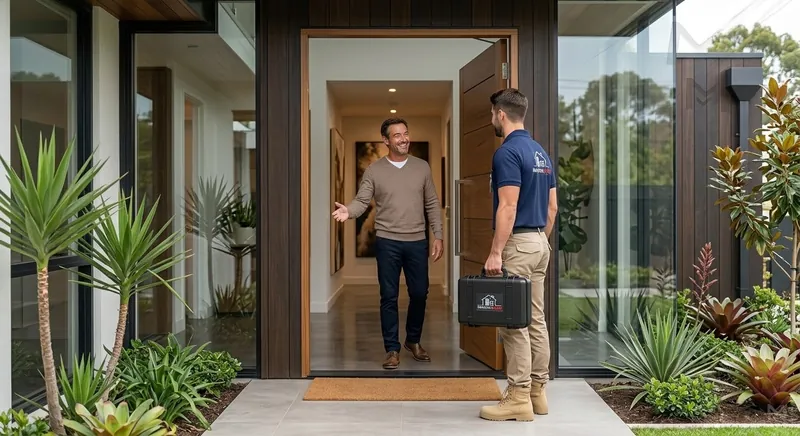
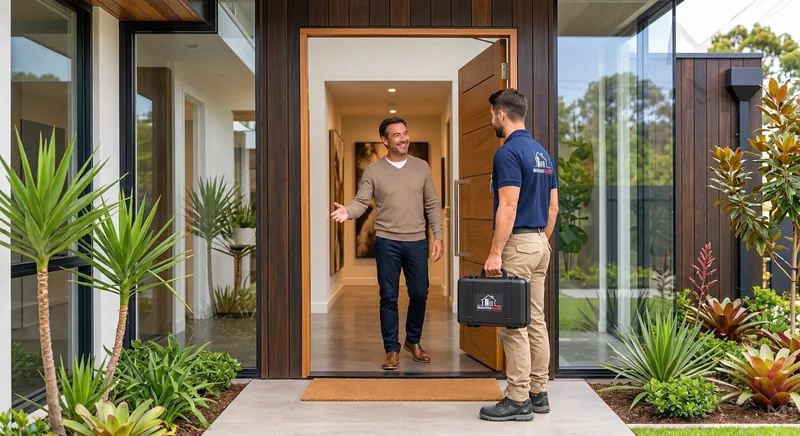
Optimiza la portada para claridad y SEO, y agrega el botón «Llámanos»
- H1 «Servicio técnico de electrodomésticos en Santiago»; el eslogan
  queda asociado al logo; franja «Reparación · Mantención · Instalación»
  y descripción breve sin repetir servicios
- Metadescripción, Open Graph y knowsAbout coherentes con el nuevo H1;
  el <title> ya lo era y no cambia
- Botón flotante «Llámanos» (audífonos, tel:) sobre «Escríbenos»,
  en una pila fija con aro blanco; solo círculos en el celular
- Fotos nuevas: portada con el parche en la manga, paso 1 «Llegada
  pulcra» y equipo
- Pruebas de la jerarquía de la portada y de los botones (94/94)

Claude-Session: https://claude.ai/code/session_012jyCr3wqnRcai8VXK93yGC

diff --git a/index.html b/index.html
@@ -4,7 +4,7 @@
   <meta charset="utf-8">
   <meta name="viewport" content="width=device-width, initial-scale=1, viewport-fit=cover">
   <title>MantenPlus · Servicio técnico de electrodomésticos a domicilio en Santiago</title>
-  <meta name="description" content="Expertos en el cuidado y reparación de tus electrodomésticos. Técnicos especializados en marcas premium y de ingeniería alemana, a domicilio en Santiago. Diagnóstico transparente, garantía por escrito y charla de uso incluida.">
+  <meta name="description" content="Reparación, mantención e instalación de electrodomésticos a domicilio en Santiago. Especialistas en equipos de alta gama y encastrables, con diagnóstico transparente.">
   <meta name="theme-color" content="#FFFFFF">
   <link rel="canonical" href="https://mantenplus.cl/">
 
@@ -12,8 +12,8 @@
   <meta property="og:type" content="website">
   <meta property="og:locale" content="es_CL">
   <meta property="og:site_name" content="MantenPlus">
-  <meta property="og:title" content="MantenPlus · Expertos en el cuidado y reparación de tus electrodomésticos">
-  <meta property="og:description" content="Servicio técnico premium a domicilio en Santiago. Agenda por WhatsApp.">
+  <meta property="og:title" content="MantenPlus · Servicio técnico de electrodomésticos en Santiago">
+  <meta property="og:description" content="Reparación, mantención e instalación a domicilio. Agenda por WhatsApp.">
   <meta property="og:url" content="https://mantenplus.cl/">
   <meta property="og:image" content="https://mantenplus.cl/assets/img/og-mantenplus.jpg">
   <meta property="og:image:width" content="1200">
@@ -28,7 +28,7 @@
   <link rel="preload" href="assets/fonts/inter-latin.woff2" as="font" type="font/woff2" crossorigin>
 
   <!-- Imagen principal de la portada (mejora el LCP) -->
-  <link rel="preload" as="image" href="assets/img/portada-tecnico-lavadora-1200.webp" imagesrcset="assets/img/portada-tecnico-lavadora-600.webp 600w, assets/img/portada-tecnico-lavadora-1200.webp 1200w" imagesizes="(max-width: 860px) calc(100vw - 2rem), 46vw" fetchpriority="high">
+  <link rel="preload" as="image" href="assets/img/portada-tecnico-lavadora-1440.webp" imagesrcset="assets/img/portada-tecnico-lavadora-720.webp 720w, assets/img/portada-tecnico-lavadora-1440.webp 1440w" imagesizes="(max-width: 860px) calc(100vw - 2rem), 46vw" fetchpriority="high">
 
   <link rel="stylesheet" href="assets/css/styles.css">
   <script src="assets/js/main.js" defer></script>
@@ -44,7 +44,7 @@
     "email": "contacto@mantenplus.cl",
     "logo": "https://mantenplus.cl/assets/img/logo-mark.svg",
     "areaServed": { "@type": "City", "name": "Santiago", "containedInPlace": { "@type": "Country", "name": "Chile" } },
-    "knowsAbout": ["Reparación de lavadoras", "Reparación de refrigeradores", "Reparación de encimeras", "Mantención de electrodomésticos"]
+    "knowsAbout": ["Reparación de lavadoras", "Reparación de refrigeradores", "Reparación de encimeras", "Mantención de electrodomésticos", "Instalación y panelado de electrodomésticos encastrables"]
   }
   </script>
 </head>
@@ -127,16 +127,14 @@
         <div class="hero__copy">
           <p class="eyebrow">
             <span class="eyebrow__dot" aria-hidden="true"></span>
-            Servicio técnico a domicilio · Santiago
+            Reparación · Mantención · Instalación
           </p>
 
-          <h1 class="hero__title" id="hero-title">
-            Expertos en el <span class="hl">cuidado</span> y <span class="hl">reparación</span> de tus electrodomésticos
-          </h1>
+          <h1 class="hero__title" id="hero-title">Servicio técnico de <span class="hl">electrodomésticos</span> en Santiago</h1>
 
           <p class="hero__lead">
-            Reparación, mantención e <strong>instalación de equipos de alta gama</strong>, incluidos los encastrables y panelables.
-            Llegamos puntuales e identificados, te mostramos el diagnóstico antes de reparar y te enseñamos a cuidar tu equipo.
+            A domicilio y con diagnóstico transparente: te mostramos la falla y el presupuesto <strong>antes</strong> de reparar.
+            Especialistas en equipos de alta gama, incluidos encastrables y panelables. Cuidamos tus equipos y tu hogar.
           </p>
 
           <!-- Agendamiento rápido: elegir el equipo pre-llena el mensaje de WhatsApp -->
@@ -188,11 +186,11 @@
               Al tener una fotografía propia, reemplazar los archivos y el preload del <head>.
             -->
             <picture>
-              <img class="hero-photo__img" src="assets/img/portada-tecnico-lavadora-1200.webp"
-                   srcset="assets/img/portada-tecnico-lavadora-600.webp 600w, assets/img/portada-tecnico-lavadora-1200.webp 1200w"
+              <img class="hero-photo__img" src="assets/img/portada-tecnico-lavadora-1440.webp"
+                   srcset="assets/img/portada-tecnico-lavadora-720.webp 720w, assets/img/portada-tecnico-lavadora-1440.webp 1440w"
                    sizes="(max-width: 860px) calc(100vw - 2rem), 46vw"
-                   alt="Técnico con polo negro revisando la puerta de una lavadora en una casa luminosa con vista a la cordillera"
-                   width="1200" height="800" fetchpriority="high" decoding="async"
+                   alt="Técnico con polo negro y parche «German Engineering» en la manga revisando la puerta de una lavadora, con la cordillera de fondo"
+                   width="1440" height="1082" fetchpriority="high" decoding="async"
                    onerror="this.closest('picture').remove()">
             </picture>
 
@@ -615,7 +613,7 @@
                   <span>Foto: llegada del técnico, puntual e identificado</span>
                 </div>
                 <picture>
-                  <img src="assets/img/proceso/paso-1-llegada-1408.webp" srcset="assets/img/proceso/paso-1-llegada-800.webp 800w, assets/img/proceso/paso-1-llegada-1408.webp 1408w" sizes="(max-width: 860px) 85vw, 54vw" alt="Técnico de MantenPlus con su maletín, recibido con una sonrisa por el cliente en la puerta de su casa" width="1408" height="768" style="object-position: 72% 50%" loading="lazy" decoding="async">
+                  <img src="assets/img/proceso/paso-1-llegada-1440.webp" srcset="assets/img/proceso/paso-1-llegada-800.webp 800w, assets/img/proceso/paso-1-llegada-1440.webp 1440w" sizes="(max-width: 860px) 85vw, 54vw" alt="Técnico de MantenPlus con su maletín, recibido con una sonrisa por el cliente en la puerta de su casa" width="1440" height="785" style="object-position: 72% 50%" loading="lazy" decoding="async">
                 </picture>
                 <span class="photo-tag">Imagen referencial</span>
               </figure>
@@ -780,13 +778,13 @@
           <figure class="team-photo">
             <!--
               FOTO DEL EQUIPO: imagen referencial (logos poco legibles). Al tener la foto institucional real
-              (docs/04-brief-fotografico.md, Foto 2), reemplazar assets/img/equipo-mantenplus-{720,1195}.webp.
+              (docs/04-brief-fotografico.md, Foto 2), reemplazar assets/img/equipo-mantenplus-{720,1440}.webp.
             -->
-            <img src="assets/img/equipo-mantenplus-1195.webp"
-                 srcset="assets/img/equipo-mantenplus-720.webp 720w, assets/img/equipo-mantenplus-1195.webp 1195w"
+            <img src="assets/img/equipo-mantenplus-1440.webp"
+                 srcset="assets/img/equipo-mantenplus-720.webp 720w, assets/img/equipo-mantenplus-1440.webp 1440w"
                  sizes="(max-width: 860px) calc(100vw - 2rem), 56vw"
                  alt="Equipo de MantenPlus: cuatro técnicos con polo azul marino, pantalón de trabajo y botas, junto a dos integrantes de atención al cliente con polo blanco, en una cocina de alta gama"
-                 width="1195" height="896" loading="lazy" decoding="async">
+                 width="1440" height="1080" loading="lazy" decoding="async">
             <figcaption class="photo-tag">Imagen referencial</figcaption>
           </figure>
         <ul class="pillars pillars--stack" role="list">
@@ -1202,11 +1200,17 @@
   </footer>
 
 
-  <!-- Botón flotante principal de WhatsApp (verde original de la marca) -->
-  <a class="wa-fab" href="https://wa.me/569XXXXXXXX?text=Hola%20MantenPlus%2C%20quiero%20agendar%20un%20servicio." aria-label="Escríbenos por WhatsApp" data-wa-fab data-track="fab_whatsapp">
-    <span class="wa-fab__label" aria-hidden="true">Escríbenos</span>
-    <span class="wa-fab__circle" aria-hidden="true"><svg class="wa-fab__icon"><use href="#i-whatsapp"/></svg></span>
-  </a>
+  <!-- Botones flotantes de contacto directo -->
+  <div class="fab-stack" data-fab>
+    <a class="call-fab" href="tel:+569XXXXXXXX" aria-label="Llámanos" data-track="fab_llamar">
+      <span class="fab-label" aria-hidden="true">Llámanos</span>
+      <span class="call-fab__circle" aria-hidden="true"><svg class="call-fab__icon"><use href="#i-headset"/></svg></span>
+    </a>
+    <a class="wa-fab" href="https://wa.me/569XXXXXXXX?text=Hola%20MantenPlus%2C%20quiero%20agendar%20un%20servicio." aria-label="Escríbenos por WhatsApp" data-wa-fab data-track="fab_whatsapp">
+      <span class="fab-label" aria-hidden="true">Escríbenos</span>
+      <span class="wa-fab__circle" aria-hidden="true"><svg class="wa-fab__icon"><use href="#i-whatsapp"/></svg></span>
+    </a>
+  </div><!-- /botones flotantes -->
 
   <!-- Modo revisión de WhatsApp (idea de la propuesta Codex): solo se usa mientras el número de main.js sea provisorio -->
   <dialog class="msg-dialog" aria-labelledby="msg-title" data-message-dialog>

diff --git a/assets/css/styles.css b/assets/css/styles.css
@@ -915,31 +915,42 @@ details[open] > summary .acc-plus { transform: rotate(45deg); }
 @media (max-width: 860px) { .b2b { grid-template-columns: minmax(0, 1fr); } }
 @media (max-width: 560px) { .install__ctas .btn, .b2b__ctas .btn { width: 100%; } }
 
-/* 6s. BOTÓN FLOTANTE DE WHATSAPP (verde original) ----------------------------- */
-/* Círculo verde con el ícono blanco (como el botón original de WhatsApp) y etiqueta en pastilla blanca:
-   el texto blanco sobre #25D366 no alcanza el contraste mínimo, así que la palabra va en oscuro sobre blanco */
-.wa-fab {
+/* 6s. BOTONES FLOTANTES DE CONTACTO (llamada + WhatsApp) -------------------- */
+/* Pila fija en la esquina: «Llámanos» arriba y «Escríbenos» abajo, en el verde original de WhatsApp.
+   Las etiquetas van en pastillas blancas: el texto blanco sobre #25D366 no alcanza el contraste mínimo */
+.fab-stack {
   position: fixed; z-index: 45;
   right: calc(1.25rem + env(safe-area-inset-right, 0px)); bottom: calc(1.25rem + env(safe-area-inset-bottom, 0px));
-  display: flex; align-items: center; gap: .6rem; border-radius: var(--radius-pill);
+  display: flex; flex-direction: column; align-items: flex-end; gap: .75rem;
+  animation: fab-in .6s var(--ease) .3s both;
 }
-.wa-fab__circle {
-  display: grid; place-items: center; width: 60px; height: 60px; border-radius: 50%; color: #FFFFFF; background: #25D366;
-  box-shadow: 0 10px 24px -6px rgba(18, 140, 126, .55), 0 2px 6px rgba(21, 27, 35, .15);
+@keyframes fab-in { from { opacity: 0; transform: translateY(16px); } }
+.call-fab, .wa-fab { display: flex; align-items: center; gap: .6rem; border-radius: var(--radius-pill); }
+.fab-label {
+  padding: .5rem .9rem; font-family: var(--font-display); font-size: .875rem; font-weight: 700; color: var(--ink);
+  background: var(--white); border: 1px solid var(--gray-100); border-radius: var(--radius-pill); box-shadow: var(--shadow-md);
+  transition: transform .25s var(--ease);
+}
+.wa-fab__circle, .call-fab__circle {
+  display: grid; place-items: center; border-radius: 50%; color: #FFFFFF;
   transition: transform .25s var(--ease), box-shadow .25s var(--ease), background-color .2s;
 }
+/* El aro blanco separa los círculos del contenido que pasa por detrás (por ejemplo, un botón azul) */
+.wa-fab__circle { width: 60px; height: 60px; background: #25D366; box-shadow: 0 0 0 3px var(--white), 0 10px 24px -6px rgba(18, 140, 126, .55), 0 2px 6px rgba(21, 27, 35, .15); }
 .wa-fab__icon { width: 32px; height: 32px; }
-.wa-fab__label {
-  padding: .55rem .95rem; font-family: var(--font-display); font-size: .875rem; font-weight: 700; color: var(--ink);
-  background: var(--white); border: 1px solid var(--gray-100); border-radius: var(--radius-pill); box-shadow: var(--shadow-md);
-}
-.wa-fab:hover .wa-fab__circle { background: #1EBE5A; transform: translateY(-2px); box-shadow: 0 14px 30px -8px rgba(18, 140, 126, .6), 0 2px 6px rgba(21, 27, 35, .15); }
-.wa-fab:focus-visible { outline-offset: 4px; }
+/* Llamada: algo más pequeño (WhatsApp es la acción principal), centrado sobre el círculo verde */
+.call-fab__circle { width: 52px; height: 52px; margin-right: 4px; background: var(--sky-600); box-shadow: 0 0 0 3px var(--white), 0 10px 22px -8px rgba(18, 110, 175, .6), 0 2px 6px rgba(21, 27, 35, .15); }
+.call-fab__icon { width: 26px; height: 26px; }
+.wa-fab:hover .wa-fab__circle { background: #1EBE5A; transform: translateY(-2px); }
+.call-fab:hover .call-fab__circle { background: var(--sky-700); transform: translateY(-2px); }
+.call-fab:hover .fab-label, .wa-fab:hover .fab-label { transform: translateX(-3px); }
+.call-fab:focus-visible, .wa-fab:focus-visible { outline-offset: 4px; }
 @media (max-width: 860px) {
-  .wa-fab { right: calc(1rem + env(safe-area-inset-right, 0px)); bottom: calc(1rem + env(safe-area-inset-bottom, 0px)); }
-  .wa-fab__circle { width: 58px; height: 58px; }
-  .wa-fab__label { display: none; }
-  .site-footer__bottom { padding-bottom: 5.5rem; } /* que el botón no tape el pie */
+  .fab-stack { right: calc(1rem + env(safe-area-inset-right, 0px)); bottom: calc(1rem + env(safe-area-inset-bottom, 0px)); gap: .6rem; }
+  .wa-fab__circle { width: 56px; height: 56px; }
+  .call-fab__circle { width: 48px; height: 48px; }
+  .fab-label { display: none; } /* en el celular solo los círculos, para no tapar el contenido */
+  .site-footer__bottom { padding-bottom: 8.5rem; } /* que los botones no tapen el pie */
 }
 
 /* 7. RESPONSIVE ------------------------------------------------------------- */

diff --git a/galeria.html b/galeria.html
@@ -266,11 +266,17 @@
     </div>
   </footer>
 
-  <!-- Botón flotante principal de WhatsApp (verde original de la marca) -->
-  <a class="wa-fab" href="https://wa.me/569XXXXXXXX?text=Hola%20MantenPlus%2C%20quiero%20agendar%20un%20servicio." aria-label="Escríbenos por WhatsApp" data-wa-fab data-track="fab_whatsapp">
-    <span class="wa-fab__label" aria-hidden="true">Escríbenos</span>
-    <span class="wa-fab__circle" aria-hidden="true"><svg class="wa-fab__icon"><use href="#i-whatsapp"/></svg></span>
-  </a>
+  <!-- Botones flotantes de contacto directo -->
+  <div class="fab-stack" data-fab>
+    <a class="call-fab" href="tel:+569XXXXXXXX" aria-label="Llámanos" data-track="fab_llamar">
+      <span class="fab-label" aria-hidden="true">Llámanos</span>
+      <span class="call-fab__circle" aria-hidden="true"><svg class="call-fab__icon"><use href="#i-headset"/></svg></span>
+    </a>
+    <a class="wa-fab" href="https://wa.me/569XXXXXXXX?text=Hola%20MantenPlus%2C%20quiero%20agendar%20un%20servicio." aria-label="Escríbenos por WhatsApp" data-wa-fab data-track="fab_whatsapp">
+      <span class="fab-label" aria-hidden="true">Escríbenos</span>
+      <span class="wa-fab__circle" aria-hidden="true"><svg class="wa-fab__icon"><use href="#i-whatsapp"/></svg></span>
+    </a>
+  </div><!-- /botones flotantes -->
 
   <!-- Modo revisión de WhatsApp (idea de la propuesta Codex): solo se usa mientras el número de main.js sea provisorio -->
   <dialog class="msg-dialog" aria-labelledby="msg-title" data-message-dialog>

diff --git a/assets/js/main.js b/assets/js/main.js
@@ -44,7 +44,7 @@
 
   // Header: sombra al hacer scroll
   const header = document.querySelector('[data-header]');
-  const fab = document.querySelector('[data-wa-fab]'); // botón flotante de WhatsApp
+  const fab = document.querySelector('[data-fab]'); // botones flotantes de llamada y WhatsApp
 
   const onScroll = () => header.classList.toggle('is-scrolled', window.scrollY > 8);
   onScroll();

diff --git a/tools/partes.py b/tools/partes.py
@@ -76,11 +76,18 @@ def social(extra=''):
 
 
 def fab():
-    return f'''  <!-- Botón flotante principal de WhatsApp (verde original de la marca) -->
-  <a class="wa-fab" href="{AGENDAR}" aria-label="Escríbenos por WhatsApp" data-wa-fab data-track="fab_whatsapp">
-    <span class="wa-fab__label" aria-hidden="true">Escríbenos</span>
-    <span class="wa-fab__circle" aria-hidden="true"><svg class="wa-fab__icon"><use href="#i-whatsapp"/></svg></span>
-  </a>'''
+    """Botones flotantes de contacto directo: llamada (arriba) y WhatsApp (abajo, en su verde original)."""
+    return f'''  <!-- Botones flotantes de contacto directo -->
+  <div class="fab-stack" data-fab>
+    <a class="call-fab" href="{TEL}" aria-label="Llámanos" data-track="fab_llamar">
+      <span class="fab-label" aria-hidden="true">Llámanos</span>
+      <span class="call-fab__circle" aria-hidden="true"><svg class="call-fab__icon"><use href="#i-headset"/></svg></span>
+    </a>
+    <a class="wa-fab" href="{AGENDAR}" aria-label="Escríbenos por WhatsApp" data-wa-fab data-track="fab_whatsapp">
+      <span class="fab-label" aria-hidden="true">Escríbenos</span>
+      <span class="wa-fab__circle" aria-hidden="true"><svg class="wa-fab__icon"><use href="#i-whatsapp"/></svg></span>
+    </a>
+  </div><!-- /botones flotantes -->'''
 
 
 DIALOG = '''  <!-- Modo revisión de WhatsApp (idea de la propuesta Codex): solo se usa mientras el número de main.js sea provisorio -->
@@ -110,7 +117,7 @@ if __name__ == '__main__':
             continue
         s = p.read_text()
         s = re.sub(r'  <header class="site-header" data-header>.*?</header>', lambda m: header(base), s, count=1, flags=re.S)
-        s = re.sub(r'  <!-- Botón flotante principal de WhatsApp.*?</a>', lambda m: fab(), s, count=1, flags=re.S)
+        s = re.sub(r'  <!-- Botones flotantes de contacto directo -->.*?<!-- /botones flotantes -->', lambda m: fab(), s, count=1, flags=re.S)
         s = re.sub(r'  <!-- Modo revisión de WhatsApp.*?</dialog>', lambda m: DIALOG, s, count=1, flags=re.S)
         p.write_text(s)
         print('actualizado', name)

diff --git a/docs/07-directrices-marca.md b/docs/07-directrices-marca.md
@@ -38,16 +38,33 @@ Observaciones pendientes para el cliente:
 - En varias fotos el polo lleva un logo «M+» con «Servicio Técnico de Electrodomésticos», distinto del isotipo oficial (casa con refrigerador y lavadora).
 - El medidor de consumo de la foto de instrumentos marca 120 V y tiene un enchufe estadounidense; en Chile la red es de 220 V con enchufes tipo L o C.
 
+## Portada, SEO y contacto flotante (2 nov 2026)
+
+| Elemento | Antes | Ahora |
+|---|---|---|
+| Franja sobre el título | Servicio técnico a domicilio · Santiago | Reparación · Mantención · Instalación |
+| H1 | Expertos en el cuidado y reparación de tus electrodomésticos | Servicio técnico de electrodomésticos en Santiago |
+| Descripción | Reparación, mantención e instalación… | A domicilio y con diagnóstico transparente: te mostramos la falla y el presupuesto antes de reparar. Especialistas en equipos de alta gama, incluidos encastrables y panelables. Cuidamos tus equipos y tu hogar. |
+| Eslogan | Bajo el logo y como H1 | Solo bajo el logo (cabecera y footer) y en la imagen para compartir |
+
+La descripción no repite «reparación, mantención e instalación», que ya están en la franja superior.
+
+SEO revisado: el `<title>` («Servicio técnico de electrodomésticos a domicilio en Santiago») ya era coherente y no cambió. Se actualizaron la metadescripción y el título y la descripción para redes (Open Graph), y se agregó «Instalación y panelado de electrodomésticos encastrables» a `knowsAbout` en los datos estructurados, porque es un servicio que la página ofrece. No cambiaron URLs, dominio ni datos comerciales.
+
+Botones flotantes: «Llámanos» (círculo azul con el ícono de audífonos, enlace `tel:`) sobre «Escríbenos» (círculo verde de WhatsApp), en una pila fija con aro blanco. En el celular se muestran solo los círculos para no tapar el contenido; las etiquetas quedan como nombre accesible. Mientras el número sea provisorio, ambos abren el diálogo para copiar el mensaje.
+
+Fotos reemplazadas: portada (el técnico con el parche «German Engineering» en la manga, 4:3), paso 1 «Llegada pulcra» (otro calzado) y equipo (cambia la integrante de la izquierda).
+
 ## Archivos de imagen
 
 | Uso | Archivos |
 |---|---|
-| Portada | `assets/img/portada-tecnico-lavadora-{600,1200}.webp` |
+| Portada | `assets/img/portada-tecnico-lavadora-{720,1440}.webp` |
 | Instalación y panelado | `assets/img/instalacion-panelado-{800,1365}.webp` |
 | Antes/después | `assets/img/resultados/{lavadora,secadora,lavavajillas,horno,microondas,encimera,campana}-{antes,despues}-*.webp` |
 | Galería | `assets/img/galeria/*-{640,1280}.webp` |
-| Proceso | `assets/img/proceso/paso-1-llegada-{800,1408}.webp`, `paso-2-diagnostico-{480,688}.webp`, `paso-4-charla-{800,1440}.webp`; el paso 3 usa la campana de isla de la galería |
-| Equipo | `assets/img/equipo-mantenplus-{720,1195}.webp` |
+| Proceso | `assets/img/proceso/paso-1-llegada-{800,1440}.webp`, `paso-2-diagnostico-{480,688}.webp`, `paso-4-charla-{800,1440}.webp`; el paso 3 usa la campana de isla de la galería |
+| Equipo | `assets/img/equipo-mantenplus-{720,1440}.webp` |
 | Herramientas | `assets/img/herramientas/{instrumentos-medicion,herramientas-precision}-{640,1280}.webp` |
 
 ## Piezas compartidas

diff --git a/docs/01-arquitectura.md b/docs/01-arquitectura.md
@@ -15,7 +15,7 @@ Cada sección responde una objeción y termina invitando a **Agendar servicio** 
 | # | Sección (ancla) | Objetivo | Recurso clave |
 |---|---|---|---|
 | 0 | Header fijo | Navegar sin perder la CTA | Logo con eslogan + 7 enlaces + «Agendar» |
-| 1 | **Hero** | Captar y convertir en 5 segundos | Eslogan oficial, técnico recibido en la puerta, selector equipo → avería → WhatsApp |
+| 1 | **Hero** | Captar y convertir en 5 segundos | H1 «Servicio técnico de electrodomésticos en Santiago», franja de servicios, foto del técnico, selector equipo → avería → WhatsApp |
 | 2 | Franja de marcas | Autoridad inmediata | Bosch, Siemens, Miele, Neff, Gaggenau, AEG (en texto) |
 | 3 | `#servicios` | «Reparan lo que tengo» | Tarjetas por equipo con **micro-video en bucle** |
 | 4 | `#instalacion` | **Diferencial**: instalación y panelado | Equipos encastrables y panelables de alta gama |
@@ -29,7 +29,7 @@ Cada sección responde una objeción y termina invitando a **Agendar servicio** 
 | 12 | `#cobertura` | «¿Llegan a mi comuna?» | Comunas por zona + comprobador |
 | 13 | `#faq` | Resolver objeciones finales | Acordeón con 10 preguntas |
 | 14 | `#contacto` | Cierre | WhatsApp directo, llamada al móvil, contacto@mantenplus.cl, redes |
-| — | Botón flotante | WhatsApp siempre a mano | Círculo verde original de WhatsApp |
+| — | Botones flotantes | Contacto siempre a mano | «Llámanos» (azul, audífonos) sobre «Escríbenos» (verde original de WhatsApp) |
 
 **Fase 2 (SEO local):** páginas `/reparacion-lavadoras`, `/reparacion-refrigeradores`, `/reparacion-encimeras`, `/servicio-tecnico-bosch`, `/servicio-tecnico-miele`… y por comuna (`/servicio-tecnico-las-condes`). Es lo que de verdad posiciona en Google para búsquedas como «técnico lavadora Bosch Vitacura».
 

diff --git a/README.md b/README.md
@@ -21,7 +21,7 @@ assets/brand/              Logotipo original y fotos de referencia del uniforme
 robots.txt, sitemap.xml    Indexación en Google para https://mantenplus.cl
 .nojekyll                  GitHub Pages publica los archivos tal cual
 tests/sitio.cjs            Pruebas en Chromium + accesibilidad (npm test)
-tools/partes.py            Cabecera, botón de WhatsApp y diálogo compartidos por las dos páginas
+tools/partes.py            Cabecera, botones flotantes (llamada y WhatsApp) y diálogo compartidos por las dos páginas
 docs/
   01-arquitectura.md            Mapa del sitio, embudo de conversión, decisiones técnicas
   02-guia-visual.md             Paleta, tipografía, botones, movimiento
